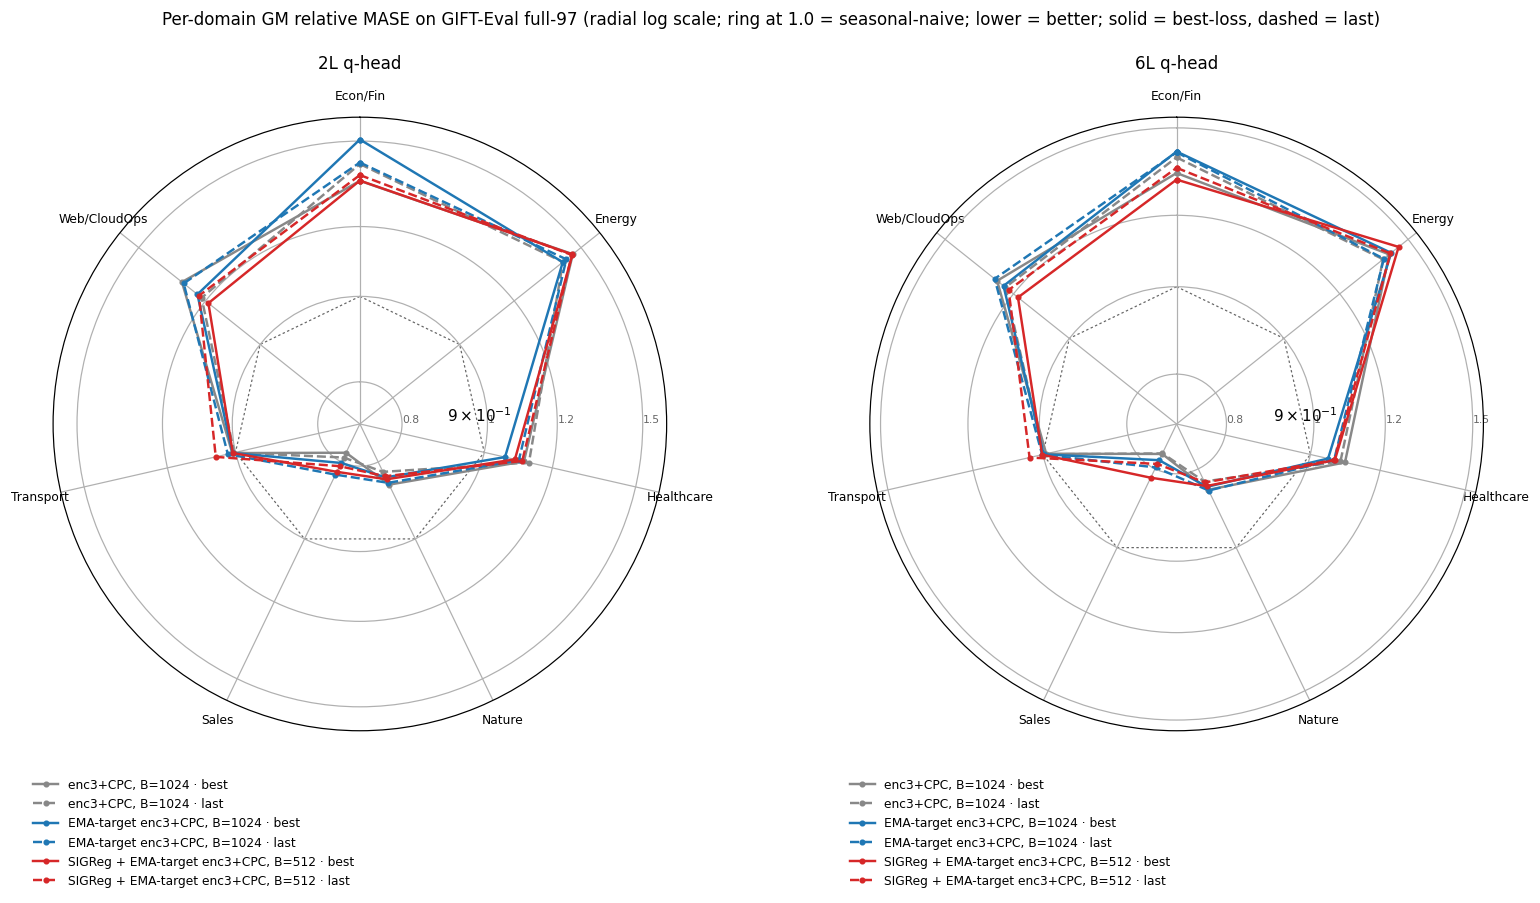
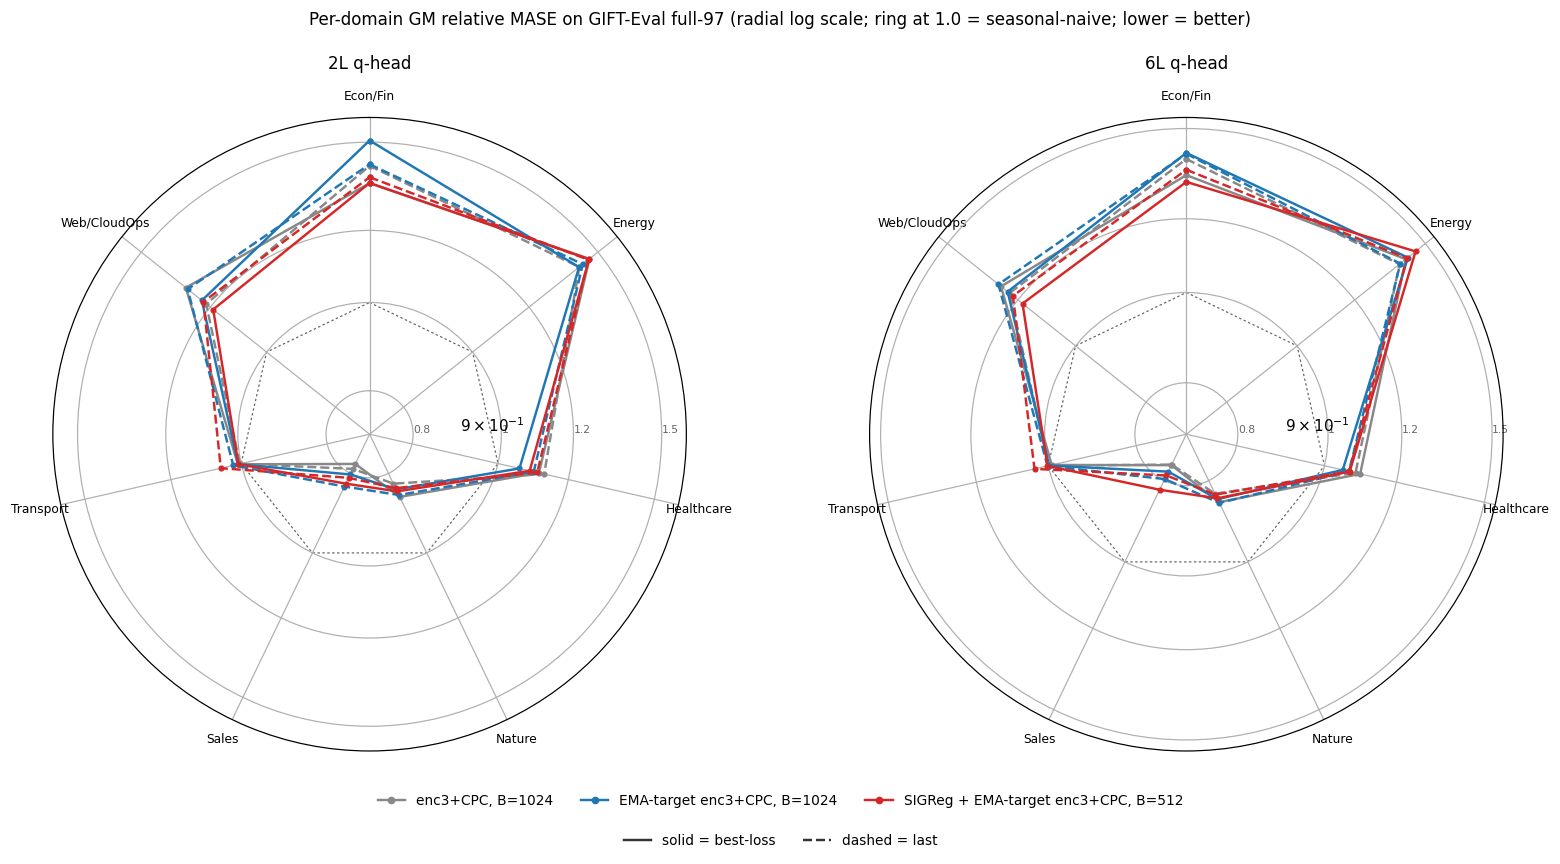
exp(#355): address #356 round-3 review — 4 items
P1 (factual). Annex C and the body Metric-scope line wrongly scoped
the wrapper-coverage gap to all SN-normalised metrics. Both
GM-Rel MASE and GM-MASE are available from the shipped artefacts
(per-config Relative column in summary.txt; MASE[0.5] in
all_results.csv). Only GM-MAPE_SN and GM-CRPS_SN are blocked, since
the per-config seasonal-naive denominators for MAPE / CRPS are not
written. Annex C rewritten; Metric-scope line rescoped.

Added the 12-cell GM-MASE table inline alongside the existing
GM-Rel MASE table — SIGReg 2L/best = 1.6229 vs EMA 2L/best = 1.6235.
gm_table.csv extended with a gm_mase column; build_report.py reads
SIGReg GM-MASE from each gift_eval_full_*/all_results.csv and bakes
the four CPC and four EMA reference values as REF_GM_MASE /
EMA_GM_MASE constants for reproducibility.

P2 (rigour). Protocol now states N=1 explicitly (single seed
20260520; no replicates here or for the two reference arms).

P3 (polish). Trajectory table in Annex D extended with u_temporal_e
and u_temporal columns; the trailing prose line on the two final
values is removed.

P4 (polish). Per-domain radar collapsed to a single shared legend
below the figure: one row for the three arms (colour-keyed) and one
row keying solid=best-loss / dashed=last, replacing the two dense
per-panel legends.

diff --git a/experiments/2026-06-20_lejepa_sigreg/scripts/build_report.py b/experiments/2026-06-20_lejepa_sigreg/scripts/build_report.py
@@ -21,6 +21,20 @@ EMA_GM = {
     ("ema_enc3", "6L", "best"): 1.1576,
     ("ema_enc3", "6L", "last"): 1.1597,
 }
+# Per-arm GM-MASE = geomean of `eval_metrics/MASE[0.5]` over the 97 configs in
+# `all_results.csv`. Independent of seasonal-naive denominators.
+REF_GM_MASE = {
+    ("cpc_enc3", "2L", "best"): 1.6559,
+    ("cpc_enc3", "2L", "last"): 1.6119,
+    ("cpc_enc3", "6L", "best"): 1.6193,
+    ("cpc_enc3", "6L", "last"): 1.5986,
+}
+EMA_GM_MASE = {
+    ("ema_enc3", "2L", "best"): 1.6235,
+    ("ema_enc3", "2L", "last"): 1.6519,
+    ("ema_enc3", "6L", "best"): 1.6182,
+    ("ema_enc3", "6L", "last"): 1.6211,
+}
 
 ARM_LABEL = {
     "cpc_enc3":    "enc3+CPC, B=1024",
@@ -45,33 +59,49 @@ def parse_n_configs(summary_path: Path) -> int:
     return int(m.group(1)) if m else 0
 
 
+def gm_mase_from_all_results(all_csv: Path) -> float | None:
+    if not all_csv.exists():
+        return None
+    mase = pd.read_csv(all_csv)["eval_metrics/MASE[0.5]"].astype(float)
+    mase = mase[mase > 0]
+    if mase.empty:
+        return None
+    return float(math.exp(mase.apply(math.log).mean()))
+
+
 def write_gm_table(results_dir: Path, out_csv: Path, tag: str):
     rows: list[dict] = []
     for (arm, head, ckpt), gm in REF_GM.items():
-        rows.append(dict(arm=arm, label=ARM_LABEL[arm], head=head, ckpt=ckpt, gm=gm, n=97))
+        rows.append(dict(arm=arm, label=ARM_LABEL[arm], head=head, ckpt=ckpt,
+                         gm=gm, gm_mase=REF_GM_MASE[(arm, head, ckpt)], n=97))
     for (arm, head, ckpt), gm in EMA_GM.items():
-        rows.append(dict(arm=arm, label=ARM_LABEL[arm], head=head, ckpt=ckpt, gm=gm, n=97))
+        rows.append(dict(arm=arm, label=ARM_LABEL[arm], head=head, ckpt=ckpt,
+                         gm=gm, gm_mase=EMA_GM_MASE[(arm, head, ckpt)], n=97))
 
     sigreg_map = {
-        ("2L", "best"): results_dir / f"gift_eval_full_{tag}_2L" / "summary.txt",
-        ("2L", "last"): results_dir / f"gift_eval_full_{tag}_last_2L" / "summary.txt",
-        ("6L", "best"): results_dir / f"gift_eval_full_{tag}_6L" / "summary.txt",
-        ("6L", "last"): results_dir / f"gift_eval_full_{tag}_last_6L" / "summary.txt",
+        ("2L", "best"): results_dir / f"gift_eval_full_{tag}_2L",
+        ("2L", "last"): results_dir / f"gift_eval_full_{tag}_last_2L",
+        ("6L", "best"): results_dir / f"gift_eval_full_{tag}_6L",
+        ("6L", "last"): results_dir / f"gift_eval_full_{tag}_last_6L",
     }
-    for (head, ckpt), sp in sigreg_map.items():
-        gm = parse_gm(sp)
-        n = parse_n_configs(sp)
+    for (head, ckpt), sub in sigreg_map.items():
+        gm = parse_gm(sub / "summary.txt")
+        n = parse_n_configs(sub / "summary.txt")
+        gm_mase = gm_mase_from_all_results(sub / "all_results.csv")
         if gm is not None:
             rows.append(dict(arm="sigreg_enc3", label=ARM_LABEL["sigreg_enc3"],
-                             head=head, ckpt=ckpt, gm=gm, n=n))
+                             head=head, ckpt=ckpt, gm=gm, gm_mase=gm_mase, n=n))
 
     with out_csv.open("w", newline="") as fh:
-        w = csv.DictWriter(fh, fieldnames=["arm", "label", "head", "ckpt", "gm", "n"])
+        w = csv.DictWriter(
+            fh, fieldnames=["arm", "label", "head", "ckpt", "gm", "gm_mase", "n"])
         w.writeheader()
         for r in rows:
-            # Force 4 dp for gm — DictWriter would otherwise strip trailing zeros
-            # (`1.1610` → `1.161`), breaking column precision consistency.
-            w.writerow({**r, "gm": f"{r['gm']:.4f}"})
+            # Force 4 dp for both gm columns — DictWriter would otherwise strip
+            # trailing zeros (`1.1610` → `1.161`), breaking column precision.
+            w.writerow({**r,
+                        "gm": f"{r['gm']:.4f}",
+                        "gm_mase": f"{r['gm_mase']:.4f}" if r['gm_mase'] is not None else ""})
     return rows
 
 
@@ -196,32 +226,32 @@ def plot_perdomain_radar(
     sig_tag: str, ema_tag: str, cpc_tag: str, out: Path,
 ):
     """2 panels (2L | 6L), 6 curves each (3 arms × {best, last})."""
+    from matplotlib.lines import Line2D
     HEADS = ["2L", "6L"]
     GREY, BLUE, RED = "#888888", "#1f77b4", "#d62728"
-    CURVES = [  # (arm-key, root, tag, ckpt-suffix, colour, linestyle, label)
-        ("cpc_enc3",    cpc_results, cpc_tag, "",      GREY, "-",  f"{ARM_LABEL['cpc_enc3']} · best"),
-        ("cpc_enc3",    cpc_results, cpc_tag, "_last", GREY, "--", f"{ARM_LABEL['cpc_enc3']} · last"),
-        ("ema_enc3",    ema_results, ema_tag, "",      BLUE, "-",  f"{ARM_LABEL['ema_enc3']} · best"),
-        ("ema_enc3",    ema_results, ema_tag, "_last", BLUE, "--", f"{ARM_LABEL['ema_enc3']} · last"),
-        ("sigreg_enc3", sig_results, sig_tag, "",      RED,  "-",  f"{ARM_LABEL['sigreg_enc3']} · best"),
-        ("sigreg_enc3", sig_results, sig_tag, "_last", RED,  "--", f"{ARM_LABEL['sigreg_enc3']} · last"),
+    ARMS = [  # (arm-key, root, tag, colour)
+        ("cpc_enc3",    cpc_results, cpc_tag, GREY),
+        ("ema_enc3",    ema_results, ema_tag, BLUE),
+        ("sigreg_enc3", sig_results, sig_tag, RED),
     ]
+    CKPTS = [("", "-"), ("_last", "--")]
     fig, axes = plt.subplots(1, 2, figsize=(15, 8), subplot_kw=dict(polar=True))
     for ax, head in zip(axes, HEADS):
         cells = []
-        for arm, root, tag, suf, col, ls, lab in CURVES:
-            sub = root / f"gift_eval_full_{tag}{suf}_{head}"
-            rel = _config_relatives(sub / "summary.txt")
-            dmap = _dataset_to_domain(sub / "all_results.csv")
-            gm = _gm_by_domain(rel, dmap)
-            if gm:
-                cells.append((lab, gm, col, ls))
+        for arm, root, tag, col in ARMS:
+            for suf, ls in CKPTS:
+                sub = root / f"gift_eval_full_{tag}{suf}_{head}"
+                rel = _config_relatives(sub / "summary.txt")
+                dmap = _dataset_to_domain(sub / "all_results.csv")
+                gm = _gm_by_domain(rel, dmap)
+                if gm:
+                    cells.append((gm, col, ls))
         if not cells:
             ax.text(0.5, 0.5, "no eval", transform=ax.transAxes); continue
-        domains = sorted(set().union(*(g for _, g, _, _ in cells)))
+        domains = sorted(set().union(*(g for g, _, _ in cells)))
         theta = np.linspace(0, 2 * np.pi, len(domains), endpoint=False)
         theta_closed = np.concatenate([theta, theta[:1]])
-        vals = [v for _, g, _, _ in cells for v in g.values()]
+        vals = [v for g, _, _ in cells for v in g.values()]
         lo, hi = max(0.5, min(vals) * 0.92), max(vals) * 1.06
         ax.set_theta_offset(np.pi / 2); ax.set_theta_direction(-1)
         ax.set_xticks(theta); ax.set_xticklabels(domains, fontsize=8)
@@ -232,19 +262,27 @@ def plot_perdomain_radar(
         ax.set_rlabel_position(90)
         ax.plot(theta_closed, [1.0] * len(theta_closed),
                 color="k", ls=(0, (2, 2)), lw=0.8, alpha=0.6, zorder=1)
-        for lab, g, col, ls in cells:
+        for g, col, ls in cells:
             v = np.array([g.get(d, np.nan) for d in domains]
                          + [g.get(domains[0], np.nan)])
             ax.plot(theta_closed, v, color=col, ls=ls, lw=1.6, zorder=3,
-                    marker="o", markersize=3, label=lab)
+                    marker="o", markersize=3)
         ax.set_title(f"{head} q-head", fontsize=11, pad=14)
-        ax.legend(loc="upper left", bbox_to_anchor=(-0.05, -0.06),
-                  fontsize=8, frameon=False, ncol=1)
+    arm_handles = [Line2D([0], [0], color=col, lw=1.6, marker="o", markersize=4,
+                          label=ARM_LABEL[arm]) for arm, _, _, col in ARMS]
+    ckpt_handles = [
+        Line2D([0], [0], color="0.2", lw=1.6, ls="-",  label="solid = best-loss"),
+        Line2D([0], [0], color="0.2", lw=1.6, ls="--", label="dashed = last"),
+    ]
+    fig.legend(handles=arm_handles, loc="lower center",
+               bbox_to_anchor=(0.5, 0.06), ncol=3, fontsize=9, frameon=False)
+    fig.legend(handles=ckpt_handles, loc="lower center",
+               bbox_to_anchor=(0.5, 0.015), ncol=2, fontsize=9, frameon=False)
     fig.suptitle(
         "Per-domain GM relative MASE on GIFT-Eval full-97 "
-        "(radial log scale; ring at 1.0 = seasonal-naive; lower = better; "
-        "solid = best-loss, dashed = last)", fontsize=11)
-    fig.tight_layout(rect=[0, 0.03, 1, 0.93])
+        "(radial log scale; ring at 1.0 = seasonal-naive; lower = better)",
+        fontsize=11)
+    fig.tight_layout(rect=[0, 0.12, 1, 0.93])
     fig.savefig(out, dpi=110, bbox_inches="tight"); plt.close(fig)
 
 

diff --git a/reports/2026-06-20_lejepa_sigreg/lejepa_sigreg.md b/reports/2026-06-20_lejepa_sigreg/lejepa_sigreg.md
@@ -22,6 +22,8 @@ Does adding a spherical regulariser on the patch-embed and on the encoder output
 
 ![GM-Rel MASE on the GIFT-Eval full-97 benchmark, four (head-depth, backbone-checkpoint) cells per arm](plots/gm_rel_mase.png)
 
+GM-Rel MASE (lower = better; 1.0 = seasonal-naive parity):
+
 | head / checkpoint | enc3+CPC, B=1024 | EMA-target enc3+CPC, B=1024 | SIGReg + EMA-target, B=512 |
 | --- | ---: | ---: | ---: |
 | 2L / best | 1.1846 | 1.1614 | 1.1610 |
@@ -29,13 +31,22 @@ Does adding a spherical regulariser on the patch-embed and on the encoder output
 | 6L / best | 1.1584 | 1.1576 | 1.1543 |
 | 6L / last | 1.1436 | 1.1597 | 1.1556 |
 
+GM-MASE (geometric mean of per-config `MASE[0.5]` across 97 configs; lower = better; not seasonal-naive-normalised):
+
+| head / checkpoint | enc3+CPC, B=1024 | EMA-target enc3+CPC, B=1024 | SIGReg + EMA-target, B=512 |
+| --- | ---: | ---: | ---: |
+| 2L / best | 1.6559 | 1.6235 | 1.6229 |
+| 2L / last | 1.6119 | 1.6519 | 1.6436 |
+| 6L / best | 1.6193 | 1.6182 | 1.6135 |
+| 6L / last | 1.5986 | 1.6211 | 1.6154 |
+
 ![Per-domain GM-Rel MASE on GIFT-Eval full-97, 2-layer head (left) and 6-layer head (right), three arms × {best, last}](plots/perdomain_radar.png)
 
 The four-cell head-to-head does not separate the SIGReg + B=512 arm from the EMA-target B=1024 reference in either direction.
 
-**Metric scope.** Wrapper emits only GM-Rel MASE; SN-relative MASE / MAPE / CRPS are not produced (annex C).
+**Metric scope.** GM-Rel MASE and GM-MASE are both available from the wrapper artefacts; GM-MAPE_SN and GM-CRPS_SN are not, since the per-config seasonal-naive denominators for MAPE and CRPS are not written to `all_results.csv` (annex C).
 
-**Reference-values provenance.** The enc3+CPC and EMA-target columns reproduce prior arms' published head-matched tables at their own code revisions, embedded as constants `REF_GM` and `EMA_GM` in [`build_report.py`](../../experiments/2026-06-20_lejepa_sigreg/scripts/build_report.py); the SIGReg column is the only fresh head-matched eval at this code revision and HF cache snapshot.
+**Reference-values provenance.** The enc3+CPC and EMA-target columns reproduce prior arms' published head-matched tables at their own code revisions: GM-Rel MASE as constants `REF_GM` / `EMA_GM` and GM-MASE as constants `REF_GM_MASE` / `EMA_GM_MASE` in [`build_report.py`](../../experiments/2026-06-20_lejepa_sigreg/scripts/build_report.py). The SIGReg column is the only fresh head-matched eval at this code revision and HF cache snapshot; its GM-MASE is read directly from each `gift_eval_full_<tag>{,_last}_{2L,6L}/all_results.csv` (`eval_metrics/MASE[0.5]` column, geometric mean over the 97 configs).
 
 ### What the two SIGReg terms did
 
@@ -57,7 +68,7 @@ Mean over the last 50 of 12 500 steps:
 
 ## Protocol
 
-One arm, seed `20260520`, 12 500 steps. Launcher: [`experiments/2026-06-20_lejepa_sigreg/scripts/train_backbone_sigreg.sh`](../../experiments/2026-06-20_lejepa_sigreg/scripts/train_backbone_sigreg.sh).
+One arm, single seed `20260520`, 12 500 steps (N=1; no replicates run for this report or for the two reference arms it compares against). Launcher: [`experiments/2026-06-20_lejepa_sigreg/scripts/train_backbone_sigreg.sh`](../../experiments/2026-06-20_lejepa_sigreg/scripts/train_backbone_sigreg.sh).
 
 Backbone: GRU patch-embed → 3-layer transformer encoder (`K`=384, 6 heads). The arm changes exactly three flags vs the EMA-target enc3+CPC reference (B=1024):
 
@@ -92,23 +103,23 @@ All plots embed the SIGReg arm's training CSV `runs/bb_allt08_xftrip_nobn_enc3_e
 
 The arm changes three things vs the EMA-target B=1024 reference: SIGReg on `e_t`, SIGReg on `h_t`, batch 1024 → 512. The four-cell GM-Rel MASE table measures the joint perturbation. The issue spec asks for the single B=512 arm; no-SIGReg B=512 and SIGReg B=1024 controls were not run.
 
-### C. GIFT-Eval wrapper emits only GM-Rel MASE
+### C. Metric availability from the wrapper artefacts
 
-`scripts/run_gift_eval_full.sh` writes `Aggregate GM-Relative MASE (97 configs)` to each `summary.txt`. The per-config `all_results.csv` carries raw `MASE[0.5]`, `MAPE[0.5]`, and `mean_weighted_sum_quantile_loss`, but not the seasonal-naive denominators needed to form GM-MASE / GM-MAPE_SN / GM-CRPS_SN.
+`scripts/run_gift_eval_full.sh` writes `Aggregate GM-Relative MASE (97 configs)` plus per-config `Config / MASE / SN_MASE / Relative` columns to each `summary.txt`, and per-config raw `eval_metrics/MASE[0.5]`, `eval_metrics/MAPE[0.5]`, `eval_metrics/mean_weighted_sum_quantile_loss`, and `domain` to each `all_results.csv`. GM-Rel MASE is the wrapper's headline aggregate; GM-MASE is the geometric mean of per-config `MASE[0.5]` from `all_results.csv` and is reported alongside above. GM-MAPE_SN and GM-CRPS_SN are not formed here: the per-config seasonal-naive denominators for MAPE (and the seasonal-naive weighted quantile loss for CRPS) are not written to either file, so seasonal-naive normalisation of those two metrics is not available from the shipped artefacts.
 
-### D. Trajectory of SIGReg terms and `e_t` dimensionality
+### D. Trajectory of SIGReg terms and `e_t` / `h_t` dimensionality
 
 50-step rolling means:
 
-| step | `L_SIGReg(e_t)` | `L_SIGReg(h_t)` | `u_batch_e` | `u_batch` (`h_t`) | `loss` |
-| ---: | ---: | ---: | ---: | ---: | ---: |
-| 250 | 1.76e-3 | 2.59e-3 | 0.0100 | 0.4069 | 3.13 |
-| 500 | 1.36e-3 | 1.92e-3 | 0.0110 | 0.5379 | 2.99 |
-| 1 000 | 7.55e-4 | 1.23e-3 | 0.0126 | 0.6173 | 2.88 |
-| 2 000 | 6.41e-4 | 8.57e-4 | 0.0151 | 0.7190 | 3.07 |
-| 5 000 | 9.38e-4 | 8.40e-4 | 0.0240 | 0.7867 | 4.50 |
-| 7 500 | 9.96e-4 | 5.17e-4 | 0.0341 | 0.7925 | 4.54 |
-| 10 000 | 9.70e-4 | 4.12e-4 | 0.0395 | 0.7923 | 4.43 |
-| 12 500 | 1.01e-3 | 3.81e-4 | 0.0438 | 0.8020 | 4.24 |
+| step | `L_SIGReg(e_t)` | `L_SIGReg(h_t)` | `u_batch_e` | `u_batch` (`h_t`) | `u_temporal_e` | `u_temporal` (`h_t`) | `loss` |
+| ---: | ---: | ---: | ---: | ---: | ---: | ---: | ---: |
+| 250 | 1.76e-3 | 2.59e-3 | 0.0100 | 0.4072 | 0.0095 | 0.2332 | 3.13 |
+| 500 | 1.36e-3 | 1.91e-3 | 0.0110 | 0.5376 | 0.0103 | 0.2895 | 2.99 |
+| 1 000 | 7.54e-4 | 1.23e-3 | 0.0126 | 0.6173 | 0.0115 | 0.3422 | 2.88 |
+| 2 000 | 6.41e-4 | 8.58e-4 | 0.0151 | 0.7188 | 0.0131 | 0.4391 | 3.07 |
+| 5 000 | 9.37e-4 | 8.40e-4 | 0.0240 | 0.7862 | 0.0199 | 0.6083 | 4.50 |
+| 7 500 | 9.95e-4 | 5.18e-4 | 0.0341 | 0.7920 | 0.0243 | 0.6202 | 4.54 |
+| 10 000 | 9.69e-4 | 4.12e-4 | 0.0395 | 0.7938 | 0.0277 | 0.6197 | 4.43 |
+| 12 500 | 1.01e-3 | 3.81e-4 | 0.0438 | 0.8016 | 0.0315 | 0.6184 | 4.24 |
 
-`1/K` = 1/384 ≈ 0.00260. Final-step `u_temporal` = 0.6194, `u_temporal_e` = 0.0315.
+`1/K` = 1/384 ≈ 0.00260.
